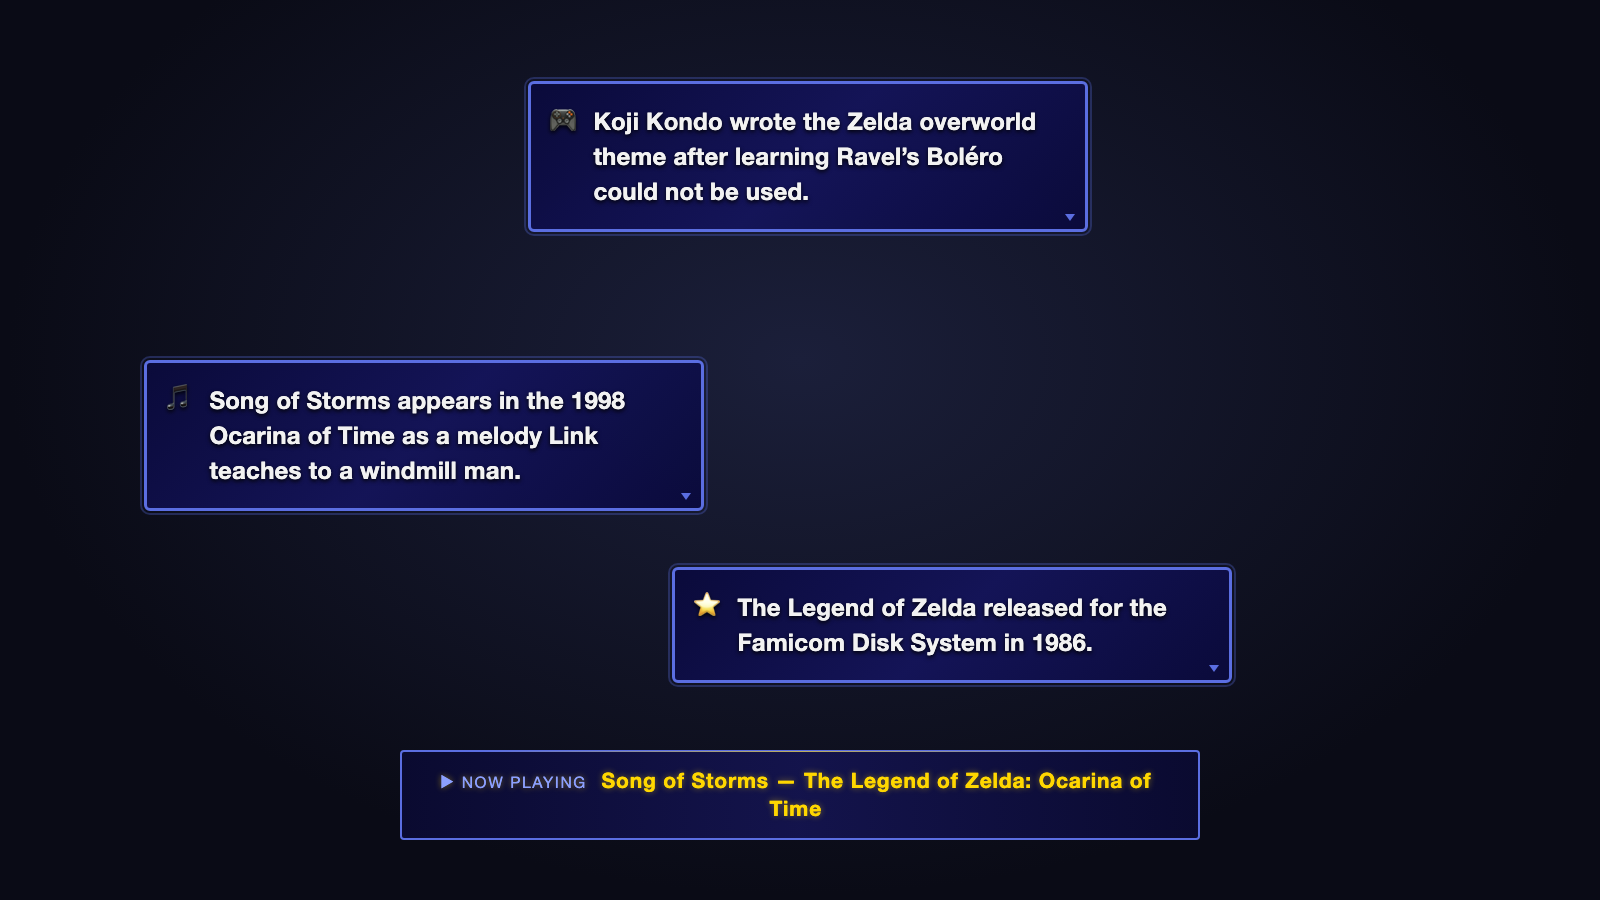
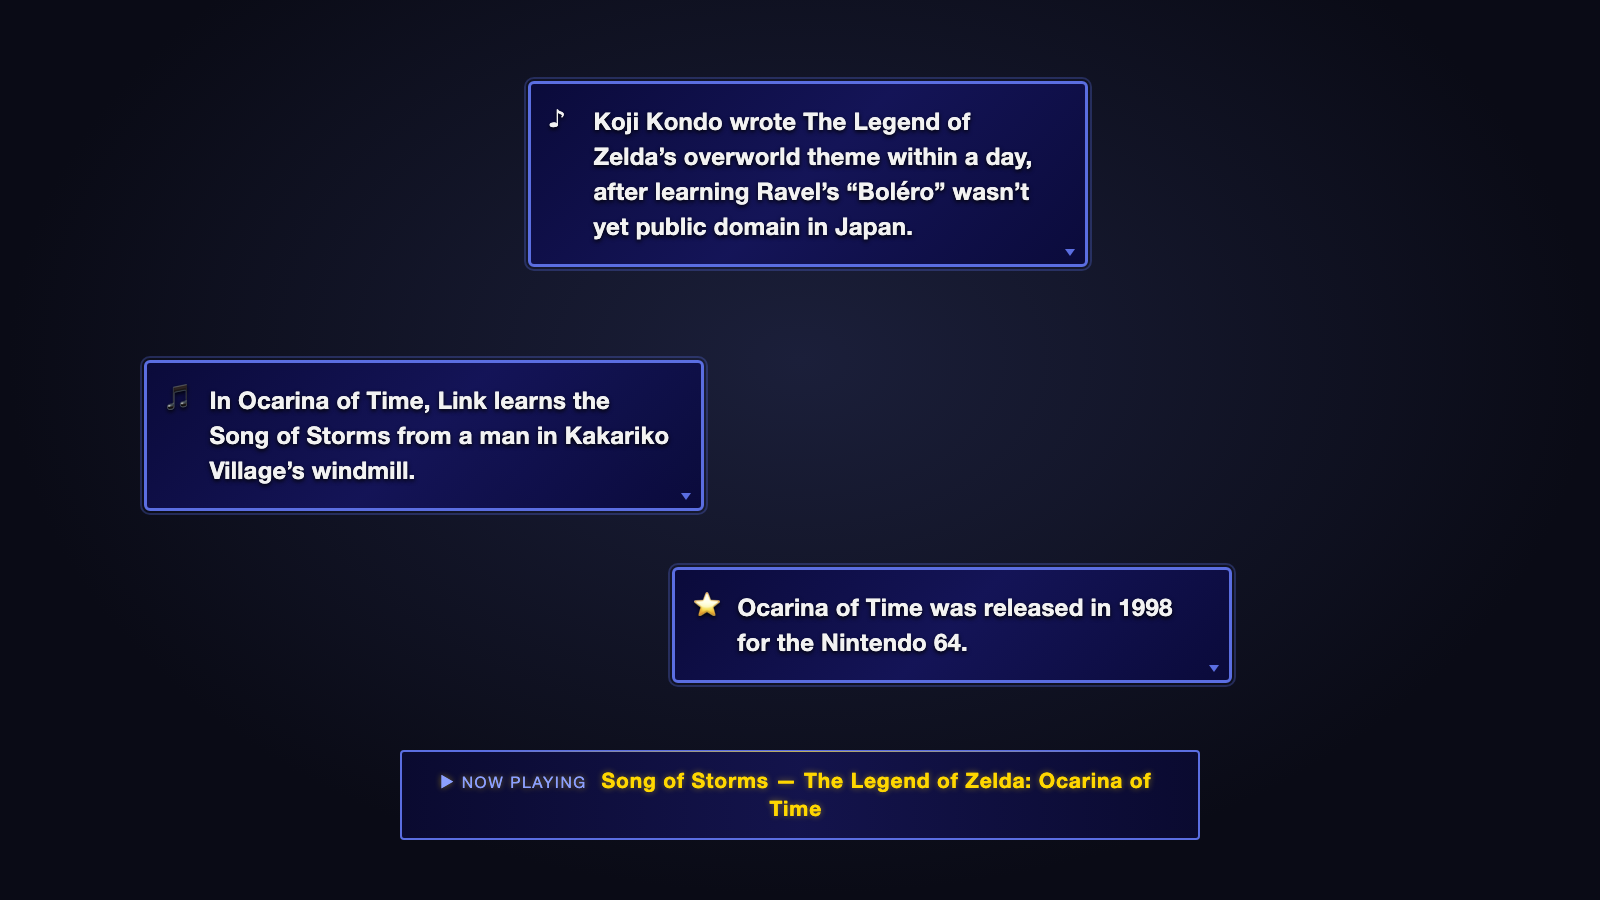
Address the follow-up review; document where facts are stored
- Title parsing: "Terra (Piano Collections)", "(Acoustic Cover)" and
  "(Live at Budokan)" were read as game names after the last change. Those
  words mark a variant again; only "(Day)" and "(Night)" must stand alone,
  so "(Night in the Woods)" still parses as a game.
- Originals are rebuilt each time instead of cached, so the requester and
  play count stay current.
- Grounding cache: a game's hits and misses are shared by its tracks again;
  an artist's songs never share. Misclassifying a game as an artist only
  costs lookups.
- The overlay's server address is one SERVER constant, and the docs say to
  change it with HOST or PORT; a Local File source can't be told otherwise.
- piano is no longer in the default TOPIC, since its originals line assumes
  a solo pianist.
- README: new "Where facts come from" section. Generated facts are kept in
  memory for the session only; topic packs are read-only fallbacks.
- Smaller: shared escapeRe, one place sets lastEndpoint, a named token budget
  for hosted reasoning models, the Korobeiniki line cites Nekrasov's poem,
  stale ARCHITECTURE lines, and a demo image that matches the product.

diff --git a/backend/src/fact-verifier.ts b/backend/src/fact-verifier.ts
@@ -1,6 +1,7 @@
 import { config } from "./config";
 import { SSLSong } from "./types";
 import { topic } from "./topic";
+import { escapeRe } from "./text";
 
 /**
  * Grounding and screening.
@@ -38,9 +39,9 @@ const groundingCache = new Map<string, { text: string; at: number }>();
 
 /** A trailing parenthetical that marks a variant rather than naming the game. */
 const VARIANT_MARKER =
-  /^\s*(arr\b|arr\.|arrange|arranged|arrangement|remix|cover|medley|reprise|remaster|remastered|ost\b|ver\b|ver\.|version|act\s*\d|part\s*\d|\d{4}\b)/i;
-/** Words that are a variant only when they are the whole parenthetical: "(Night)", not "(Night in the Woods)". */
-const VARIANT_WORD = /^\s*(live|acoustic|piano|vocal|instrumental|day|night)(\s+(ver\.?|version|mix|arr\.?))?\s*$/i;
+  /^\s*(arr\b|arr\.|arrange|arranged|arrangement|remix|cover|medley|reprise|remaster|remastered|ost\b|ver\b|ver\.|version|act\s*\d|part\s*\d|\d{4}\b|live\b|acoustic\b|piano\b|vocal\b|instrumental\b)/i;
+/** "(Day)" and "(Night)" are variants only on their own; "(Night in the Woods)" is a game. */
+const VARIANT_WORD = /^\s*(day|night)\s*$/i;
 
 /** Split "Game: Track", "Game - Track" or "Track (Game)". */
 export function splitGameAndTrack(title: string): { game: string; track: string } {
@@ -280,12 +281,15 @@ export async function fetchGrounding(song: SSLSong): Promise<string> {
   const gameKey = normalizeTitle(game);
   const songKey = `${gameKey}\0${normalizeTitle(track)}`;
 
-  for (const key of [gameKey, songKey]) {
+  // A game's tracks share one lookup. An artist's songs never share: each may
+  // have its own article. The artist test is a heuristic, and guessing
+  // "artist" for a game only costs extra lookups, never wrong facts.
+  const artist = looksLikeArtistName(game);
+  for (const key of artist ? [songKey] : [gameKey, songKey]) {
     const hit = key && groundingCache.get(key);
     if (hit && (hit.text || Date.now() - hit.at < NEGATIVE_TTL_MS)) return hit.text;
   }
 
-  const artist = looksLikeArtistName(game);
   // Which way an article matched decides how widely it may be shared. A
   // track article must not be attributed to another artist, and its text
   // must mention the game or artist: "Overture" alone is a generic article.
@@ -317,7 +321,7 @@ export async function fetchGrounding(song: SSLSong): Promise<string> {
       }
       const text = `${page}\n${extract}`;
       console.log(`[Grounding] "${song.title}" -> ${page} (${extract.length} chars)`);
-      groundingCache.set(byGame ? gameKey : songKey, { text, at: Date.now() });
+      groundingCache.set(byGame && !artist ? gameKey : songKey, { text, at: Date.now() });
       return text;
     } catch (err) {
       unreachable = err instanceof RateLimited ? "rate-limited" : "lookup failed";
@@ -332,7 +336,7 @@ export async function fetchGrounding(song: SSLSong): Promise<string> {
       (unreachable ? ` (${unreachable}, not cached)` : "") +
       ` — tried: ${terms.join(" | ")}`
   );
-  if (!unreachable) groundingCache.set(songKey, { text: "", at: Date.now() });
+  if (!unreachable) groundingCache.set(artist ? songKey : gameKey, { text: "", at: Date.now() });
   return "";
 }
 
@@ -342,7 +346,6 @@ export function clearGroundingCache(): void {
 
 // --- Screening ---------------------------------------------------------
 
-const escapeRe = (s: string) => s.replace(/[.*+?^${}()|[\]\\]/g, "\\$&");
 /** Whole-word, whole-phrase containment. */
 const hasWord = (needle: string, haystack: string, flags = "i") =>
   new RegExp(`(^|[^\\p{L}\\p{N}])${escapeRe(needle)}([^\\p{L}\\p{N}]|$)`, flags + "u").test(haystack);

diff --git a/backend/src/fact-generator.ts b/backend/src/fact-generator.ts
@@ -19,6 +19,8 @@ import { topic } from "./topic";
 /** Ask for a few spares; screening drops some. */
 const OVERGENERATE = 2;
 const MAX_TOKENS = 512;
+/** Hosted reasoning models, such as Groq's free gpt-oss, spend part of their budget thinking. */
+const HOSTED_MAX_TOKENS = 2048;
 
 /**
  * Bubble slots as CSS percentages of a 1920x1080 overlay. Laid out to avoid a
@@ -181,8 +183,7 @@ async function askOpenAICompatible(prompt: string): Promise<string> {
       model: config.openaiModel,
       messages: [{ role: "user", content: prompt }],
       temperature: config.temperature,
-      // Reasoning models (Groq's free gpt-oss) spend part of this on hidden reasoning.
-      max_tokens: MAX_TOKENS * 4,
+      max_tokens: HOSTED_MAX_TOKENS,
     },
     config.openaiTimeoutMs,
     { Authorization: `Bearer ${config.openaiApiKey}` }
@@ -190,8 +191,8 @@ async function askOpenAICompatible(prompt: string): Promise<string> {
   return data.choices?.[0]?.message?.content ?? "";
 }
 
-/** Primary Ollama host, then the fallback host if one is configured. */
-async function askOllama(prompt: string): Promise<string> {
+/** Primary Ollama host, then the fallback host if one is configured. Returns the text and the host that answered. */
+async function askOllama(prompt: string): Promise<[string, string]> {
   const hosts = [config.ollamaBaseUrl, config.ollamaFallbackUrl].filter(Boolean);
   let lastError: unknown;
   for (const host of hosts) {
@@ -207,8 +208,7 @@ async function askOllama(prompt: string): Promise<string> {
         },
         config.ollamaTimeoutMs
       );
-      factStats.lastEndpoint = host;
-      return data.response;
+      return [data.response, host];
     } catch (err) {
       lastError = err;
       console.warn(`[FactGen] Ollama at ${host} failed: ${err instanceof Error ? err.message : err}`);
@@ -220,17 +220,19 @@ async function askOllama(prompt: string): Promise<string> {
 async function askModel(prompt: string): Promise<string> {
   const started = Date.now();
   let text: string;
+  let endpoint: string;
   if (config.aiProvider === "anthropic") {
     text = await askAnthropic(prompt);
-    factStats.lastEndpoint = `anthropic (${config.anthropicModel})`;
+    endpoint = `anthropic (${config.anthropicModel})`;
   } else if (config.aiProvider === "openai") {
     text = await askOpenAICompatible(prompt);
-    factStats.lastEndpoint = `${config.openaiBaseUrl} (${config.openaiModel})`;
+    endpoint = `${config.openaiBaseUrl} (${config.openaiModel})`;
   } else {
-    text = await askOllama(prompt);
+    [text, endpoint] = await askOllama(prompt);
   }
+  factStats.lastEndpoint = endpoint;
   factStats.lastDurationMs = Date.now() - started;
-  console.log(`[FactGen] ${factStats.lastEndpoint} answered in ${(factStats.lastDurationMs / 1000).toFixed(1)}s`);
+  console.log(`[FactGen] ${endpoint} answered in ${(factStats.lastDurationMs / 1000).toFixed(1)}s`);
   return text;
 }
 
@@ -258,7 +260,8 @@ async function generate(song: SSLSong, entry: SSLQueueItem | null): Promise<{ fa
       const facts = toFacts([...stats, ...topic.originalsFacts].slice(0, want));
       console.log(`[FactGen] "${song.title}" is an original: ${facts.length} facts from the song entry`);
       record(song, "original", facts.length);
-      return { facts, ttlMs: Infinity };
+      // Not cached: requester and play count change, and this path is free.
+      return { facts, ttlMs: 0 };
     }
 
     const context = config.factVerification ? await fetchGrounding(song) : "";

diff --git a/docs/demo.html b/docs/demo.html
@@ -8,8 +8,8 @@
   #connection-status{display:none}
 </style></head>
 <body><div id="bubble-container">
-  <div class="popup-bubble" style="top:9%;left:33%;--bubble-icon:'🎮'">Koji Kondo wrote the Zelda overworld theme after learning Ravel’s Boléro could not be used.<span class="sparkle sparkle-1"></span><span class="sparkle sparkle-2"></span><span class="sparkle sparkle-3"></span></div>
-  <div class="popup-bubble" style="top:40%;left:9%;--bubble-icon:'🎵'">Song of Storms appears in the 1998 Ocarina of Time as a melody Link teaches to a windmill man.<span class="sparkle sparkle-1"></span><span class="sparkle sparkle-2"></span><span class="sparkle sparkle-3"></span></div>
-  <div class="popup-bubble" style="top:63%;left:42%;--bubble-icon:'⭐'">The Legend of Zelda released for the Famicom Disk System in 1986.<span class="sparkle sparkle-1"></span><span class="sparkle sparkle-2"></span><span class="sparkle sparkle-3"></span></div>
+  <div class="popup-bubble" style="top:9%;left:33%;--bubble-icon:'♪'">Koji Kondo wrote The Legend of Zelda’s overworld theme within a day, after learning Ravel’s “Boléro” wasn’t yet public domain in Japan.<span class="sparkle sparkle-1"></span><span class="sparkle sparkle-2"></span><span class="sparkle sparkle-3"></span></div>
+  <div class="popup-bubble" style="top:40%;left:9%;--bubble-icon:'🎵'">In Ocarina of Time, Link learns the Song of Storms from a man in Kakariko Village’s windmill.<span class="sparkle sparkle-1"></span><span class="sparkle sparkle-2"></span><span class="sparkle sparkle-3"></span></div>
+  <div class="popup-bubble" style="top:63%;left:42%;--bubble-icon:'⭐'">Ocarina of Time was released in 1998 for the Nintendo 64.<span class="sparkle sparkle-1"></span><span class="sparkle sparkle-2"></span><span class="sparkle sparkle-3"></span></div>
   <div class="song-toast visible"><span class="toast-label">▶ NOW PLAYING</span>  Song of Storms — The Legend of Zelda: Ocarina of Time</div>
 </div></body></html>

diff --git a/backend/src/fact-verifier.test.ts b/backend/src/fact-verifier.test.ts
@@ -582,10 +582,14 @@ describe("screening holes found in review", () => {
 });
 
 describe("title parsing and matching found in review", () => {
-  it("reads a parenthetical game name that starts with a variant word", () => {
+  it("reads arrangement parentheticals as variants, not game names", () => {
+    for (const title of ["Terra (Piano Collections)", "Tifa's Theme (Acoustic Cover)", "Aerith (Live at Budokan)", "Main Theme (Night)"]) {
+      expect(splitGameAndTrack(title).game).toBe(title);
+    }
+  });
+
+  it("still reads a game name that merely starts with Day or Night", () => {
     expect(splitGameAndTrack("Theme (Night in the Woods)").game).toBe("Night in the Woods");
-    expect(splitGameAndTrack("Main Theme (Live A Live)").game).toBe("Live A Live");
-    expect(splitGameAndTrack("Main Theme (Night)").game).toBe("Main Theme (Night)");
   });
 
   it("matches titles regardless of accents", () => {
@@ -665,6 +669,13 @@ describe("fetchGrounding", () => {
     expect(await fetchGrounding({ title: "Obscure B-Side", artist: "Queen" })).toBe("");
     pages = { "Bohemian Rhapsody Queen": ["Bohemian Rhapsody"] };
     expect(await fetchGrounding({ title: "Bohemian Rhapsody", artist: "Queen" })).toMatch(/^Bohemian Rhapsody/);
+  });
+
+  it("remembers a game's miss for all its tracks", async () => {
+    expect(await fetchGrounding({ title: "Track One", artist: "The Tiny Game 2" })).toBe("");
+    const calls = fetchMock.mock.calls.length;
+    expect(await fetchGrounding({ title: "Track Two", artist: "The Tiny Game 2" })).toBe("");
+    expect(fetchMock.mock.calls.length).toBe(calls);
   });
 
   it("never grounds a game track on a generic article named like the track", async () => {

diff --git a/backend/src/stat-facts.ts b/backend/src/stat-facts.ts
@@ -1,3 +1,4 @@
+import { escapeRe } from "./text";
 import { SSLQueueItem } from "./types";
 
 /**
@@ -27,7 +28,7 @@ export function isOriginal(entry: SSLQueueItem | null, names: string[]): boolean
   const artist = (entry.song?.artist ?? "").trim().toLowerCase();
   return names.some((n) => {
     const name = n.trim().toLowerCase();
-    return Boolean(name) && (artist === name || new RegExp(`@${name.replace(/[.*+?^${}()|[\]\\]/g, "\\$&")}\\b`).test(artist));
+    return Boolean(name) && (artist === name || new RegExp(`@${escapeRe(name)}\\b`).test(artist));
   });
 }
 
@@ -52,7 +53,7 @@ export function buildStatFacts(
 ): string[] {
   if (!entry) return [];
   const facts: string[] = [];
-  const song = entry.song ?? ({} as SSLQueueItem["song"]);
+  const song = entry.song;
   const display = cleanTitle(entry.nonlistSong || song.title || "", song.artist);
   const who = opts.streamerName;
 

diff --git a/backend/src/fact-generator.test.ts b/backend/src/fact-generator.test.ts
@@ -121,6 +121,13 @@ describe("generateFacts", () => {
     expect(mockCreate).not.toHaveBeenCalled();
   });
 
+  it("rebuilds an original's facts each time, so requester and play count stay current", async () => {
+    const original = { title: "Laura's Wedding", artist: "Test Streamer" };
+    await generateFacts(original, entry({ ...original, timesPlayed: 1 }));
+    const later = await generateFacts(original, entry({ ...original, timesPlayed: 2 }));
+    expect(later.some((f) => f.text.includes("2 times"))).toBe(true);
+  });
+
   it("uses entry and curated facts, with no model call, when there is no article", async () => {
     (config as { factVerification: boolean }).factVerification = true;
     const facts = await generateFacts(song, entry({ timesPlayed: 0 }));

diff --git a/frontend/obs/obs-overlay.js b/frontend/obs/obs-overlay.js
@@ -18,11 +18,10 @@
 (function () {
   "use strict";
 
-  // The server listens on the loopback address; change PORT to match .env.
-  const PORT = 3000;
-  const WS_URL = location.protocol === "file:"
-    ? "ws://127.0.0.1:" + PORT + "/ws"
-    : (location.protocol === "https:" ? "wss://" : "ws://") + location.host + "/ws";
+  // Where the server is when OBS loads this page as a Local File. Change it
+  // if you change PORT, or if the server runs on another machine (HOST).
+  const SERVER = "127.0.0.1:3000";
+  const WS_URL = "ws://" + (location.protocol === "file:" ? SERVER : location.host) + "/ws";
 
   const TOAST_MS = 5000;
   const TOAST_FADE_MS = 600;

diff --git a/backend/src/config.ts b/backend/src/config.ts
@@ -59,7 +59,7 @@ export const config = {
   sslStreamerName: requireEnv("SSL_STREAMER_NAME"),
   streamerDisplayName: process.env.STREAMER_DISPLAY_NAME || requireEnv("SSL_STREAMER_NAME"),
   instrument: (process.env.INSTRUMENT || "").trim(),
-  topic: process.env.TOPIC || "video-game,classical,film,pop,piano,general",
+  topic: process.env.TOPIC || "video-game,classical,film,pop,general",
 
   // StreamerSongList
   sslPlatform: (process.env.SSL_PLATFORM || "twitch").toLowerCase(),

diff --git a/backend/src/text.ts b/backend/src/text.ts
@@ -1,0 +1,2 @@
+/** Escape a string for use inside a RegExp. */
+export const escapeRe = (s: string): string => s.replace(/[.*+?^${}()|[\]\\]/g, "\\$&");

diff --git a/README.md b/README.md
@@ -85,6 +85,24 @@ The prompts were written for a 3-billion-parameter model and work upward from
 there. A larger model mostly buys you fewer dropped sentences, not different
 facts, because the facts come from the article either way.
 
+## Where facts come from
+
+Nothing is stored between streams except what you write yourself.
+
+- **Live facts** are generated when a song starts: its Wikipedia article is
+  fetched, the model restates it, and screening filters the result. They're
+  held in the server's memory for the session so a repeat of the song is
+  instant, and they're gone when the server stops. Nothing generated is
+  written to disk or to the topic packs.
+- **Queue-entry facts** (play count, your note, the requester) come from
+  StreamerSongList each time and are never cached for your own compositions,
+  so they stay current.
+- **Topic packs** are the hand-written files in `topics/`. They are the
+  fallback, used only when a song has no usable article or generation fails.
+  The overlay only reads them.
+- **`logs/songs.log`** records which of those paths each song took, not the
+  facts themselves.
+
 ## Topic packs
 
 When a song has no article, the overlay shows hand-verified facts from the
@@ -96,14 +114,15 @@ topic packs in `topics/`. Set `TOPIC` to the genres your channel plays:
 | `classical` | 7 | Piano repertoire and composers |
 | `film` | 8 | Film and TV scores |
 | `pop` | 7 | Pop and rock songs and songwriters |
-| `piano` | 4 | The instrument, plus an originals line for solo pianists |
+| `piano` | 4 | The instrument, plus an originals line for solo pianists (not in the default) |
 | `general` | 6 | Music in general, plus lines for your own compositions |
 
 ```env
 TOPIC=classical,film,piano,general   # a classical pianist
 ```
 
-The default is all six. The packs together must hold at least five facts.
+The default is every pack except `piano`, since its originals line assumes a
+solo pianist; add it if that's you. The packs together must hold at least five facts.
 Every line in them was checked against a source, which is the point of the
 pool; please do the same in a pull request. To make your own pack, copy any
 file in `topics/` and add its name to `TOPIC`.
@@ -133,7 +152,7 @@ option with its default. The ones you will actually touch:
 | `SSL_STREAMER_NAME` | — | Your StreamerSongList channel |
 | `SSL_ACCESS_TOKEN` | — | Required on every API call |
 | `AI_PROVIDER` | `ollama` | `ollama`, `openai`, or `anthropic` |
-| `TOPIC` | all six packs | Which topic packs supply fallback facts |
+| `TOPIC` | all but `piano` | Which topic packs supply fallback facts |
 | `STREAMER_DISPLAY_NAME` | `SSL_STREAMER_NAME` | How prompts and banners name you |
 | `INSTRUMENT` | *(empty)* | "piano", "guitar"… used in the prompt |
 | `FACTS_PER_SONG` | `5` | Bubbles per song |
@@ -190,12 +209,15 @@ runs compiled; there is no dev transpiler on purpose.
   reality.** A fact is only as correct as the Wikipedia text it came from.
 - **English Wikipedia only**, and one streamer per running server.
 - **The server listens on 127.0.0.1 only**, because it has no authentication.
-  Set `HOST` if OBS runs on another machine, and only on a network you trust.
+  If OBS runs on another machine, set `HOST=0.0.0.0` on a network you trust,
+  and set `SERVER` at the top of `frontend/obs/obs-overlay.js` to the server's
+  address.
 - **Expect some sentences to be dropped.** The model is asked for two more
   lines than are shown, and screening removes any it can't support. On a thin
   article you may see fewer bubbles than `FACTS_PER_SONG`.
 - **The overlay finds the server at 127.0.0.1:3000.** If you change `PORT`,
-  change it at the top of `frontend/obs/obs-overlay.js` too.
+  change `SERVER` at the top of `frontend/obs/obs-overlay.js` to match; a
+  Local File source can't be given the address any other way.
 - **Built against the StreamerSongList API as of 2026.** If they change it,
   the song-list client is the one file to update.
 

diff --git a/docs/ARCHITECTURE.md b/docs/ARCHITECTURE.md
@@ -27,6 +27,8 @@ StreamerSongList ──(Centrifugo WS + 15s poll)──► Backend ──WebSock
 6. **Fall back**: no article, or nothing survived → topic-pack facts, with no model call.
 7. **Broadcast** `new_song` immediately and `facts_ready` when done; the overlay drops batches for songs that already ended.
 
+Generated facts live in memory for the session (repeat songs are instant) and are never written to disk. Topic packs are read-only fallbacks.
+
 ## Design decisions
 
 Each of these was learned from real use. Read them before changing the pipeline.
@@ -62,10 +64,11 @@ suddenly falls back to curated facts, check it first.
 
 **Only a real "no article" is cached.** A timeout or rate limit means the
 lookup never happened, so it is not remembered. Real misses expire after ten
-minutes and belong to that song only. An article found through the game is
-shared by every track from it, since a set often works through one
-soundtrack; an article found through the track belongs to that song, so one
-Queen song's article is never reused for another. A track article is only
+minutes. For a game, both hits and misses are shared by all its tracks, since
+a set often works through one soundtrack. For an artist, each song keeps its
+own, so one Queen song's article is never reused for another. Telling the two
+apart is a heuristic (a known name, or "Firstname Lastname"); when it mistakes
+a game for an artist, the only cost is extra lookups. A track article is only
 accepted if its text mentions the game or artist: "Overture" on its own is a
 generic article, not a soundtrack reference.
 
@@ -77,9 +80,9 @@ about something else"), and low temperature. "Be accurate" does nothing.
 **StreamerSongList.** Every endpoint needs `SSL_ACCESS_TOKEN`. Use the queue's
 `playing` slot; `items[0]` is the *next* song and is only a fallback for
 streamers who don't use now-playing. Realtime events arrive through
-Centrifugo's unidirectional WebSocket, and every event is handled the same
-way, by refetching the queue, so an unrecognised event costs at most one poll
-interval. A change announced while a fetch is running triggers one more fetch,
+Centrifugo's unidirectional WebSocket. Queue-related events all trigger the
+same action, a refetch of the queue, so a missed or renamed event costs at most
+one poll interval. A change announced while a fetch is running triggers one more fetch,
 since the running one may predate it.
 
 **OBS.** Browser sources render without GPU acceleration: animate only
@@ -88,7 +91,7 @@ source that fails at OBS startup never retries.
 
 ## Overlay
 
-- Connects to `ws://localhost:3000/ws`. Under `file://` (the recommended OBS Local File setup) the URL is hard-coded, so the page renders and reconnects regardless of whether the server was up when OBS launched.
+- Connects to `ws://127.0.0.1:3000/ws` (the `SERVER` constant). Under `file://` (the recommended OBS Local File setup) the URL is hard-coded, so the page renders and reconnects regardless of whether the server was up when OBS launched.
 - Each fact's `delaySeconds` counts from the batch's arrival, not from song start, so a batch that lands 40 s in still shows every bubble.
 - Concurrent requests for one song (several overlays, a reconnect mid-generation) share a single generation.
 - A `song` identity guard discards facts for a song that is no longer current.

diff --git a/docs/CONFIG.md b/docs/CONFIG.md
@@ -46,10 +46,11 @@ Performer and content
   "piano", "guitar"… With it the prompt says "playing X on piano"; without it,
   "performing X".
 
-* `TOPIC` default `video-game,classical,film,pop,piano,general`
+* `TOPIC` default `video-game,classical,film,pop,general`
   One topic pack or a comma-separated list from `topics/`, merged. Pick the
   genres your channel plays; keep `general`, which holds the lines used for
-  your own compositions. Together they need at least five facts.
+  your own compositions, and add `piano` if you're a solo pianist. Together
+  they need at least five facts. Packs are only read, never written.
 
 Model
 -----
@@ -123,6 +124,7 @@ Server
   `0.0.0.0` only if OBS runs on another machine on a network you trust.
 
 * `PORT` default `3000`
-  If you change it, also change `PORT` at the top of
-  `frontend/obs/obs-overlay.js`, which the Local File overlay uses to find the
-  server.
+
+The overlay can't read `.env`. If you change `HOST` or `PORT`, set `SERVER`
+at the top of `frontend/obs/obs-overlay.js` to the matching address, for
+example `"192.168.1.20:3001"`.
